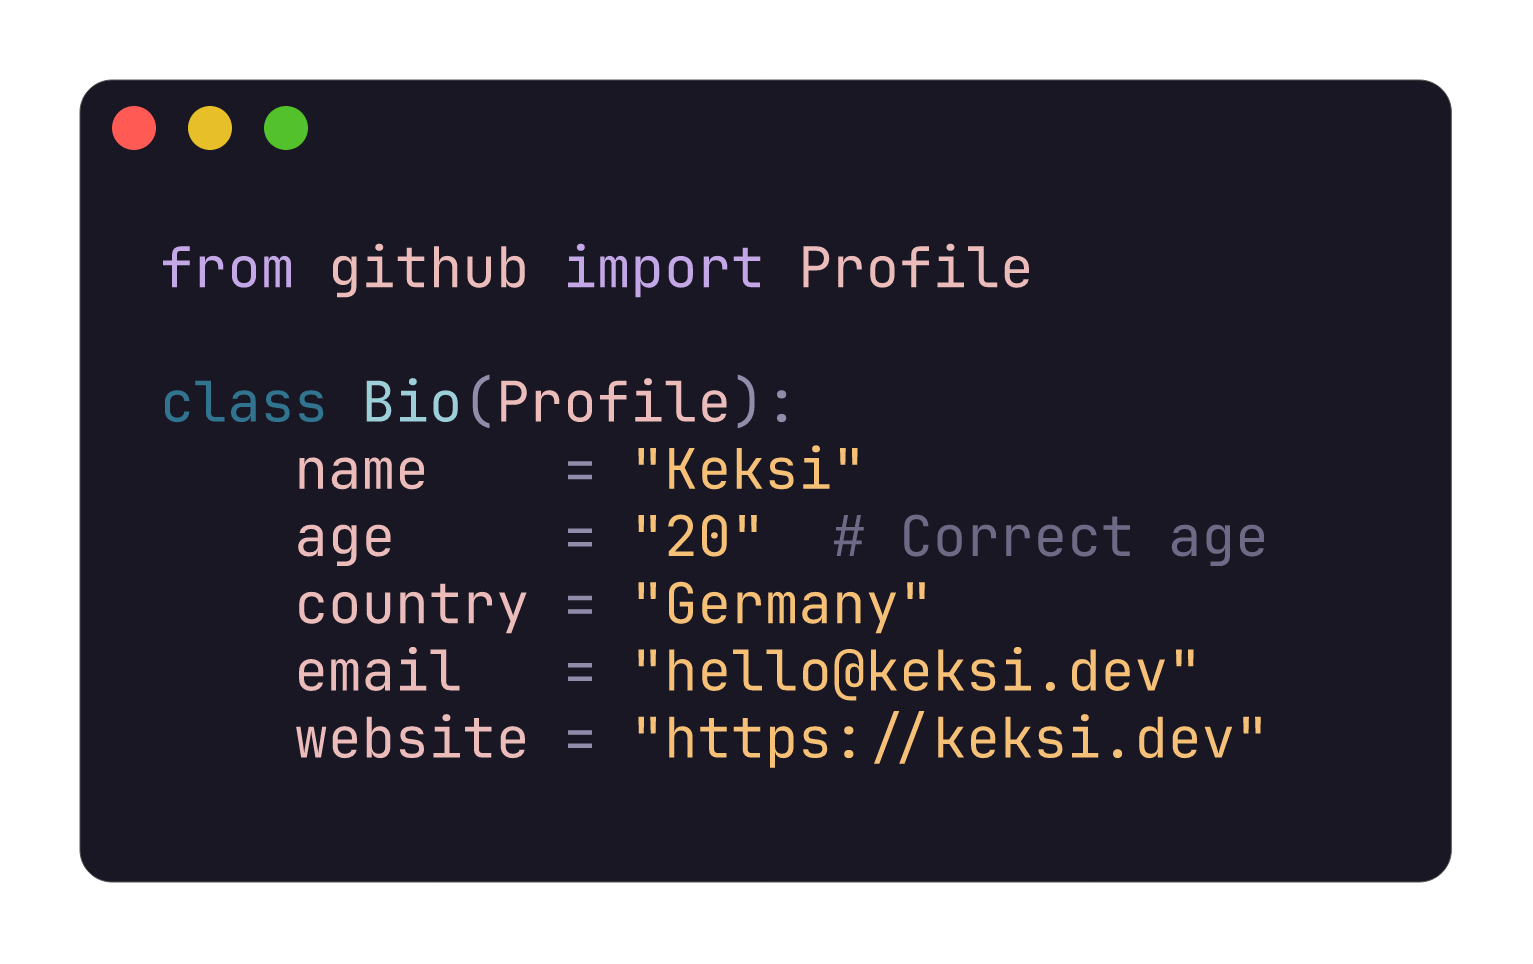
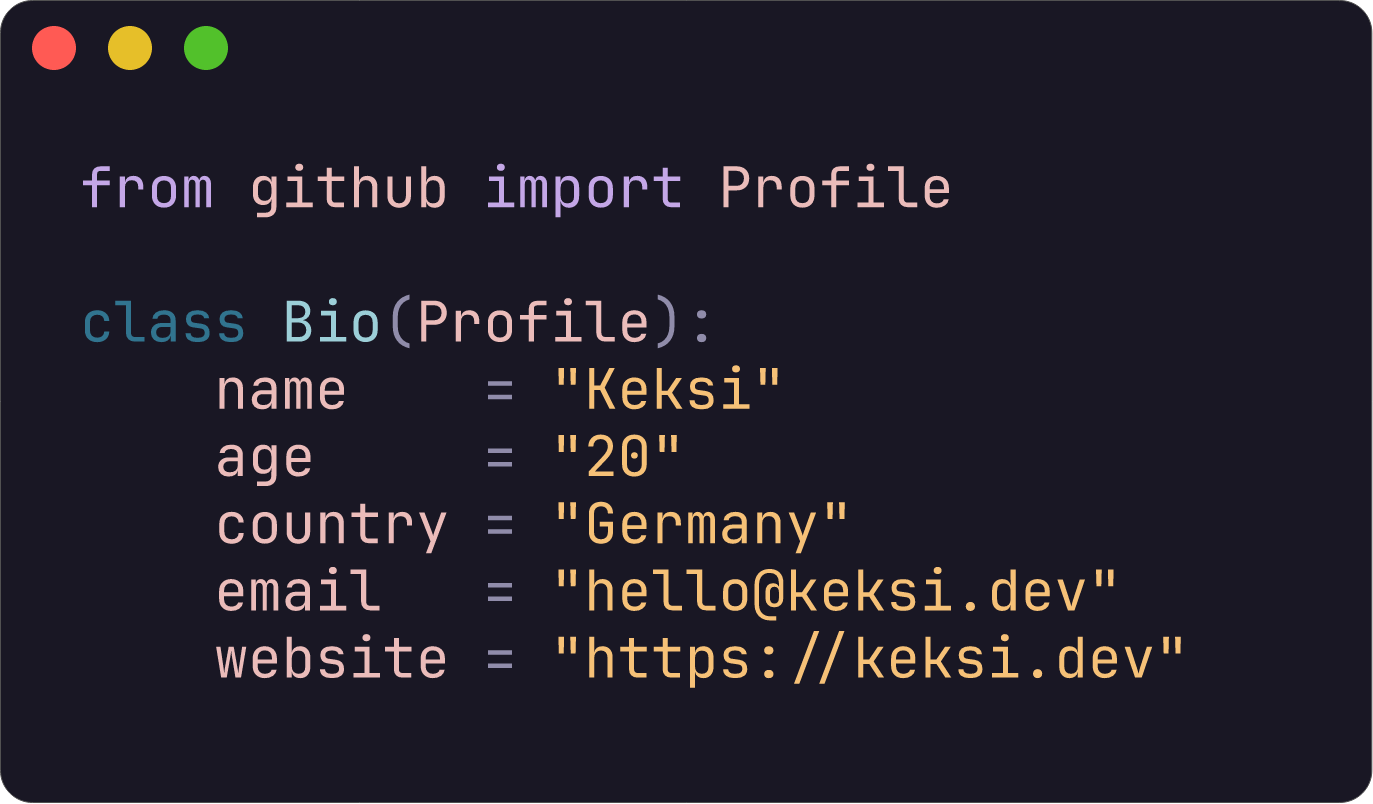
Remove margin from profile image

diff --git a/generate_profile.py b/generate_profile.py
@@ -25,13 +25,12 @@ def main():
     for file in os.listdir():
         print(f"  {file}")
     
-    # Run freeze command
+    # Run freeze command without margin
     cmd = [
         "freeze", 
         "./profile.py", 
         "-o", "./assets/profile.png", 
         "--language", "python", 
-        "-m", "20", 
         "--window", 
         "-r", "8", 
         "--border.width", "1", 
